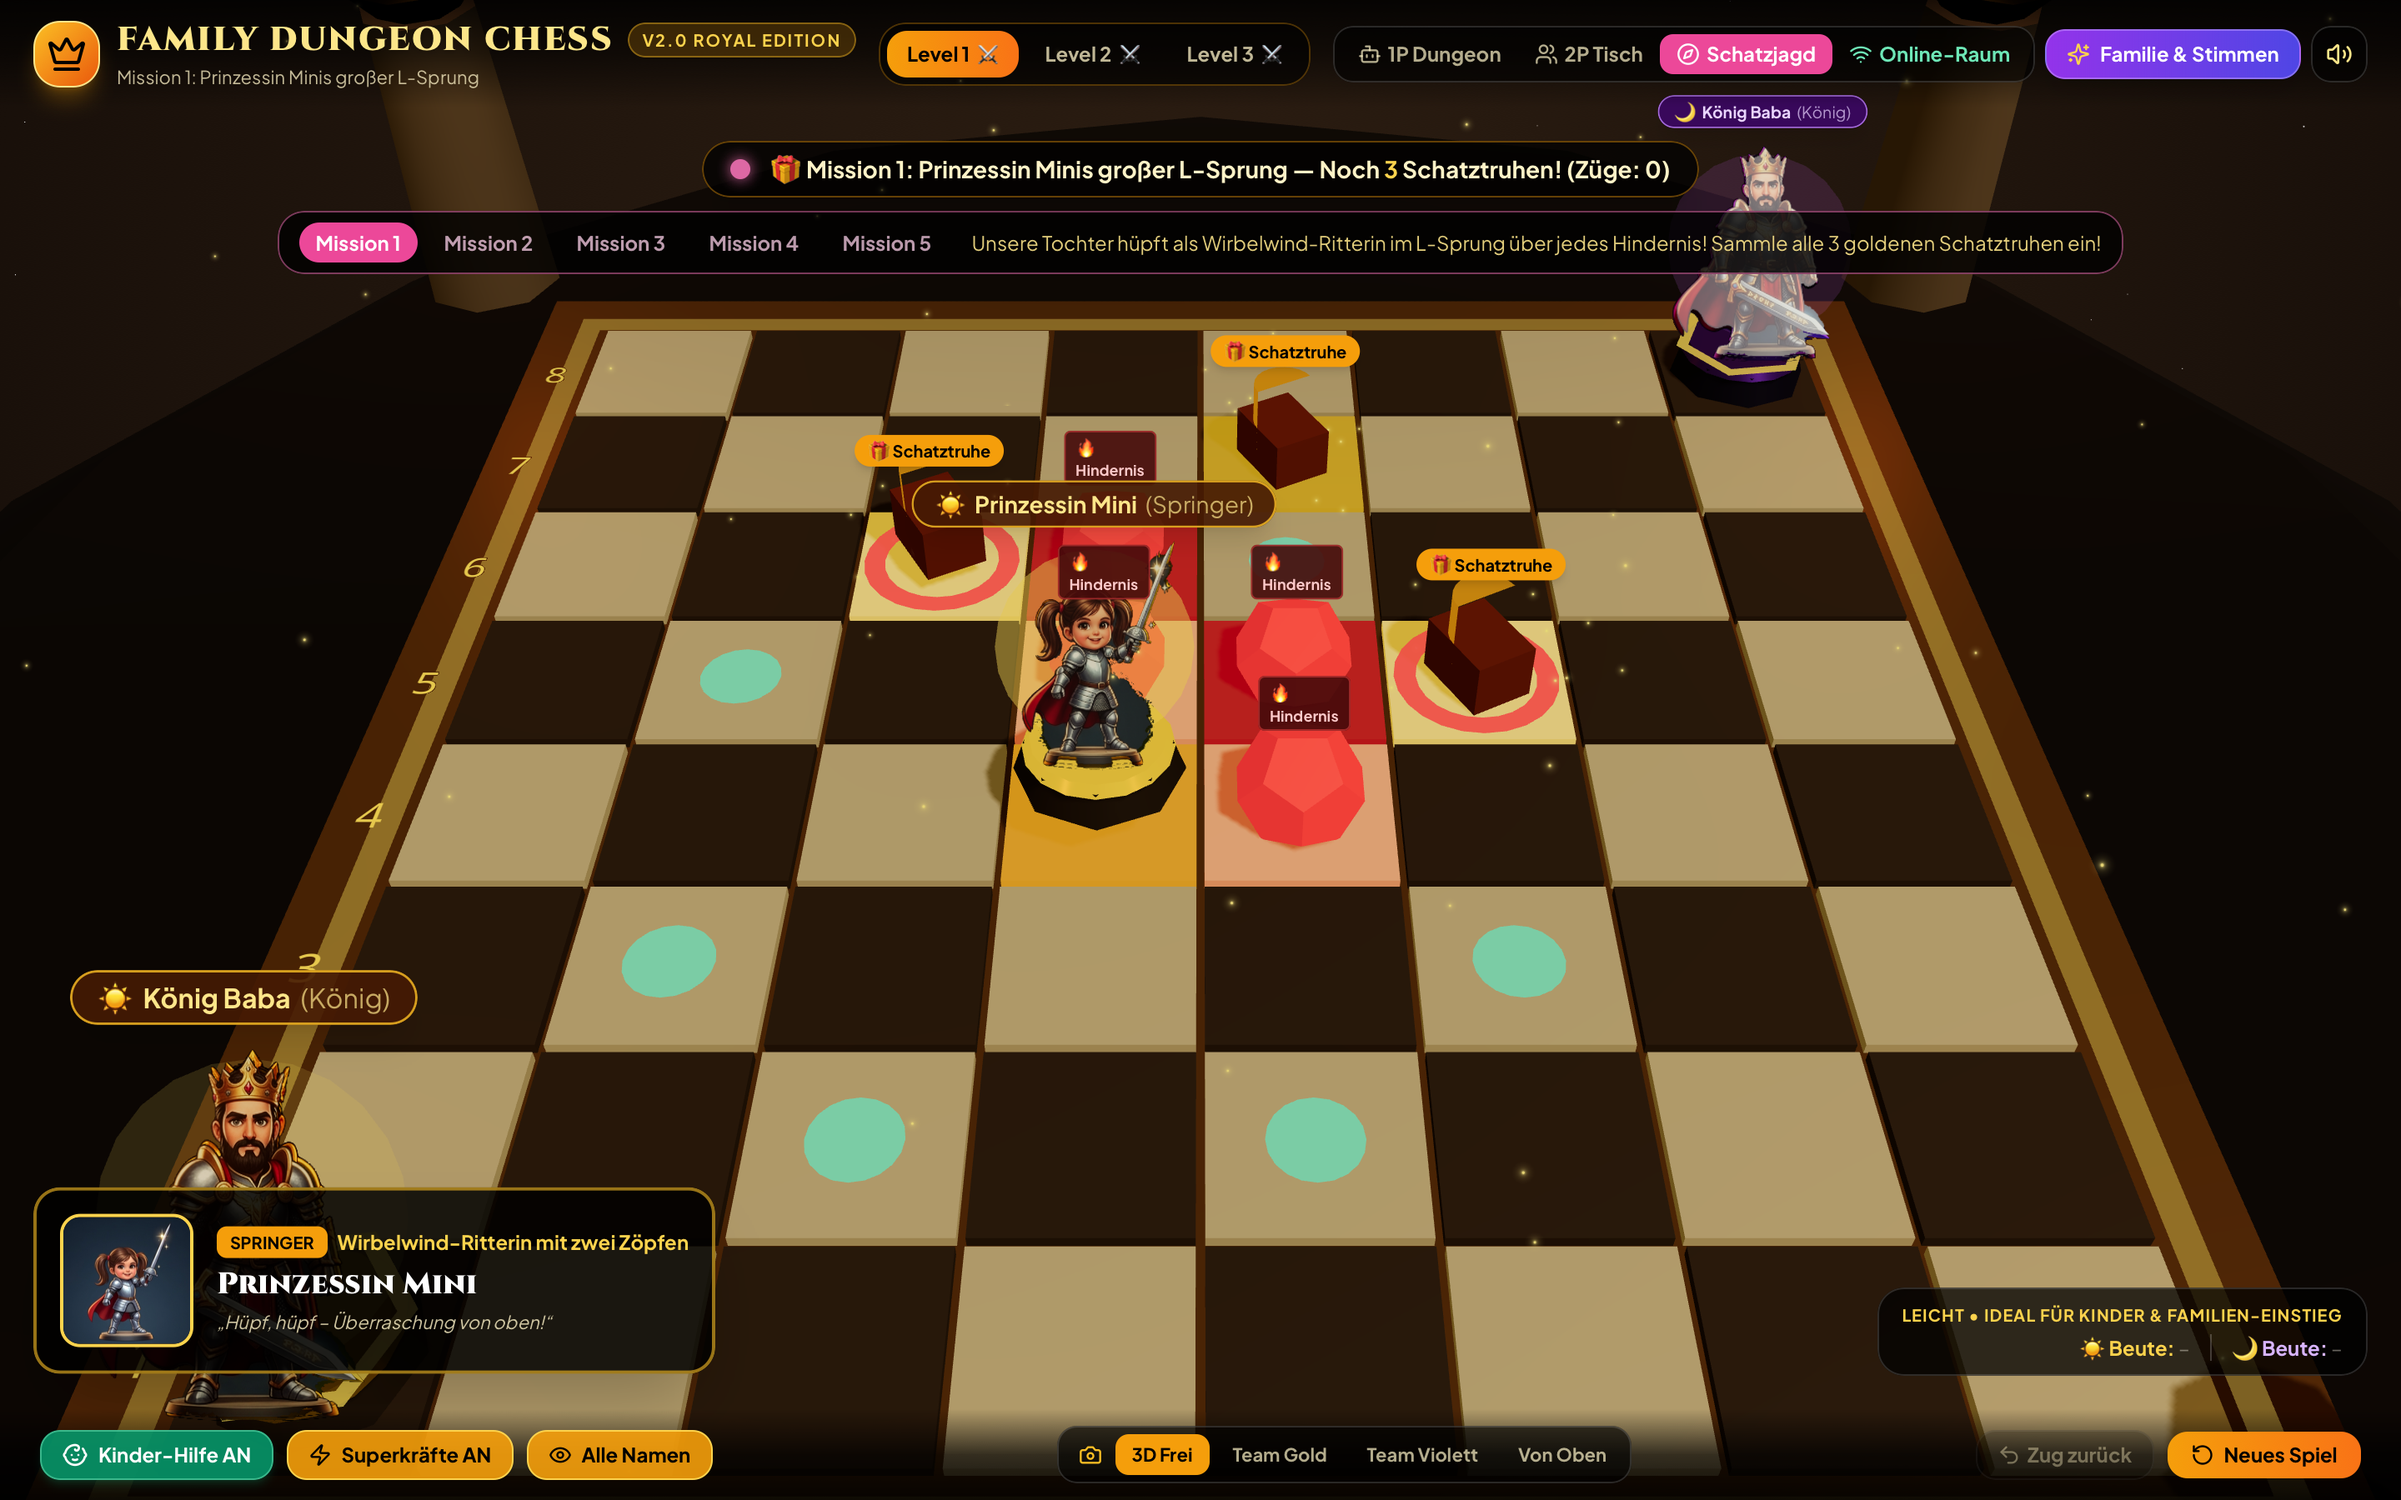
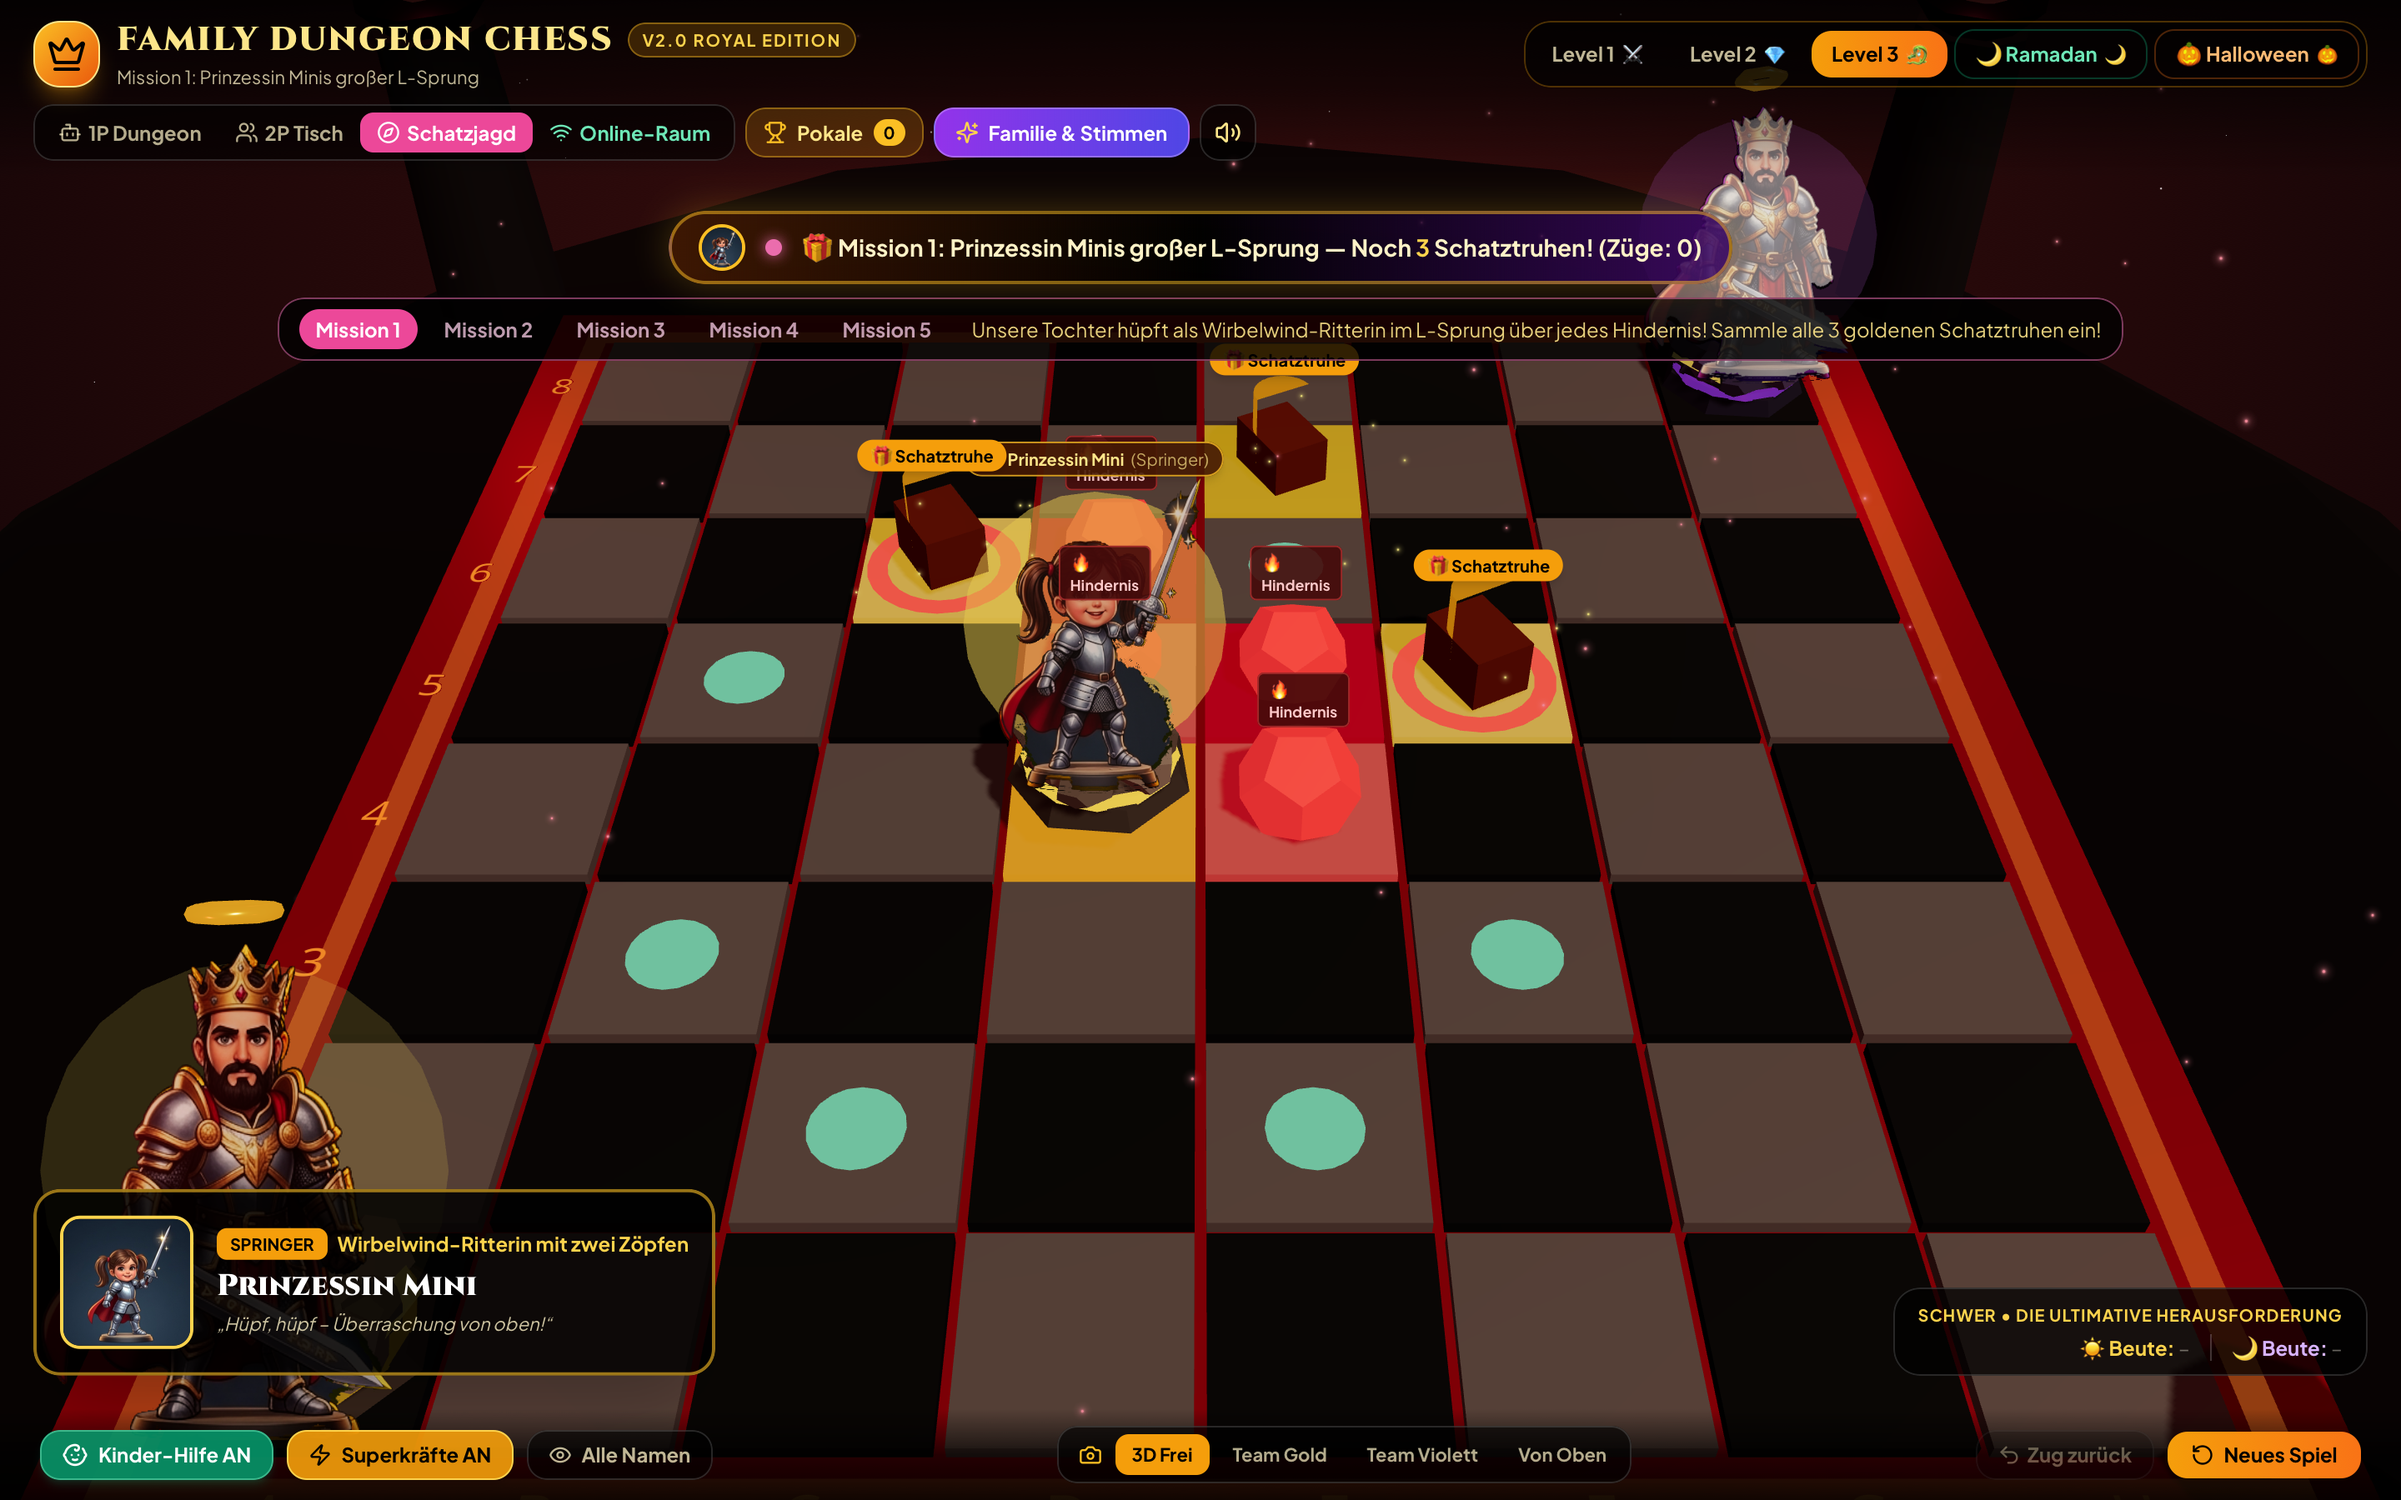
docs: add v2.2 screenshots (Ramadan, Halloween, 3D stone pedestals & animations) and update README

diff --git a/src/components/FamilyHeroPiece3D.tsx b/src/components/FamilyHeroPiece3D.tsx
@@ -24,12 +24,12 @@ interface FamilyHeroPieceProps {
 }
 
 const ROLE_HEIGHT_SCALE: Record<PieceRole, number> = {
-  k: 2.15,
-  q: 2.05,
-  b: 1.88,
-  n: 1.78,
-  r: 1.9,
-  p: 1.62,
+  k: 1.78,
+  q: 1.72,
+  b: 1.56,
+  n: 1.48,
+  r: 1.58,
+  p: 1.34,
 };
 
 export const FamilyHeroPiece3D: React.FC<FamilyHeroPieceProps> = ({
@@ -588,13 +588,12 @@ export const FamilyHeroPiece3D: React.FC<FamilyHeroPieceProps> = ({
         {/* Floating RPG Hero Badge */}
         {(hovered || isSelected || showNameplate || isShielded || isFrozen) && (
           <Html
-            position={[0, baseScale * 0.58, 0]}
+            position={[0, baseScale * 0.54, 0]}
             center
-            distanceFactor={9}
             zIndexRange={[10, 0]}
           >
             <div
-              className={`pointer-events-none px-2.5 py-0.5 rounded-full text-[11px] font-bold whitespace-nowrap shadow-lg border backdrop-blur-md transition-all ${
+              className={`pointer-events-none px-2 py-0.5 rounded-full text-[10px] font-bold whitespace-nowrap shadow-md border backdrop-blur-md transition-all ${
                 isFrozen
                   ? 'bg-sky-950/95 text-sky-200 border-sky-400'
                   : isShielded

diff --git a/src/App.tsx b/src/App.tsx
@@ -864,7 +864,7 @@ export const App: React.FC = () => {
       <div className="absolute inset-0 z-0">
         <Canvas
           shadows
-          camera={{ position: [0, 6.2, 6.3], fov: 39 }}
+          camera={{ position: [0, 7.1, 7.6], fov: 42 }}
           gl={{ antialias: true, powerPreference: 'high-performance' }}
         >
           <Suspense fallback={null}>

diff --git a/README.md b/README.md
@@ -34,26 +34,36 @@
 
 ## 📸 Screenshots aus dem Live-Spiel
 
-### 1. Level 1: Die Königliche Tor-Halle (mit beiden Cousinen-Skins & Superkraft-Button)
-> Beide Cousinen wechseln sich in der Bauern-Reihe ab (*Cousine Dolch* & *Cousine Rune* im Hahnentritt-Gewand). Unten links erscheint der **„⚡ Superkraft zünden!“**-Button der ausgewählten Figur:
+### 1. Level 1: Die Königliche Tor-Halle (mit 3D-Steinsockeln, 3D-Flugbahn-Lichtbogen & beiden Cousinen-Skins)
+> Jede Figur steht auf einem gemeißelten **3D-Steinsockel mit echten Felsbrocken um die Füße**. Über den Köpfen schweben rotierende **3D-Embleme** (Krone, Kristall, Diamant) und ein blauer **3D-Parabel-Lichtbogen** zeigt den empfohlenen Zug:
 
 ![Level 1 – Königliche Tor-Halle](docs/screenshots/01-level1-royal-hall.png)
 
-### 2. Neu in v2.0: Prinzessin Minis Schatzjagd (Kinder-Abenteuermodus)
+### 2. Neu: 🌙 Ramadan-Edition („Palast des Goldenen Halbmondes“)
+> Festliches Smaragd- & Elfenbein-Schachbrett mit rotierenden **3D-Fanous-Laternen** auf den vier Ecksäulen und einem riesigen leuchtenden **3D-Halbmond & Stern** am Nachthimmel:
+
+![Ramadan-Edition – Palast des Goldenen Halbmondes](docs/screenshots/07-ramadan-crescent-palace.png)
+
+### 3. Neu: 🎃 Halloween-Edition („Das Spuk-Kürbis-Schloss“)
+> Kinderfreundliches Grusel-Turnier mit leuchtenden **3D-Kürbissen (Jack-o'-Lanterns)** auf den Säulen, einem **3D-Geister-Reigen**, der um das Brett schwebt, und riesigem Halloween-Vollmond:
+
+![Halloween-Edition – Das Spuk-Kürbis-Schloss](docs/screenshots/08-halloween-pumpkin-castle.png)
+
+### 4. Prinzessin Minis Schatzjagd (Kinder-Abenteuermodus)
 > 5 spielerische Missionen mit rotierenden goldenen **3D-Schatztruhen** (`🎁`) und **Lava-Hindernissen** (`🔥`), mit denen Kinder die Zugregeln von Springer, Dame, Läufer, Turm und König lernen:
 
 ![Prinzessin Minis Schatzjagd](docs/screenshots/05-treasure-hunt-mode.png)
 
-### 3. Neu in v2.0: Online-Familien-Raum (Live P2P per Raum-Code & WhatsApp-Link)
+### 5. Online-Familien-Raum (Live P2P per Raum-Code & WhatsApp-Link)
 > Ohne Account erstellen: Raum-Code (`BABA-XX`) per WhatsApp in die Familiengruppe schicken und live von überall gegeneinander spielen – inklusive **Live-Emoji-Reaktionen** über dem 3D-Schachbrett:
 
 ![Online Familien-Raum](docs/screenshots/06-online-family-room.png)
 
-### 4. Level 2 & Level 3: Kristall-Katakomben & Drachen-Schmiede
+### 6. Level 2 & Level 3: Kristall-Katakomben & Drachen-Schmiede
 ![Level 2 – Kristall-Katakomben](docs/screenshots/02-level2-crystal-catacombs.png)
 ![Level 3 – Drachen-Schmiede](docs/screenshots/03-level3-dragon-forge.png)
 
-### 5. Familien-Helden & Sprachstudio (`🎤 Echte Stimme aufnehmen`)
+### 7. Familien-Helden & Sprachstudio (`🎤 Echte Stimme aufnehmen`)
 > Im **„Familie & Stimmen“**-Menü lassen sich nicht nur alle Namen und Sprüche ändern, sondern auch **echte Mikrofon-Sprachaufnahmen** für jedes Familienmitglied aufnehmen, die beim Schlagen einer Figur abgespielt werden:
 
 ![Familien-Helden Menü](docs/screenshots/04-family-heroes-customizer.png)
